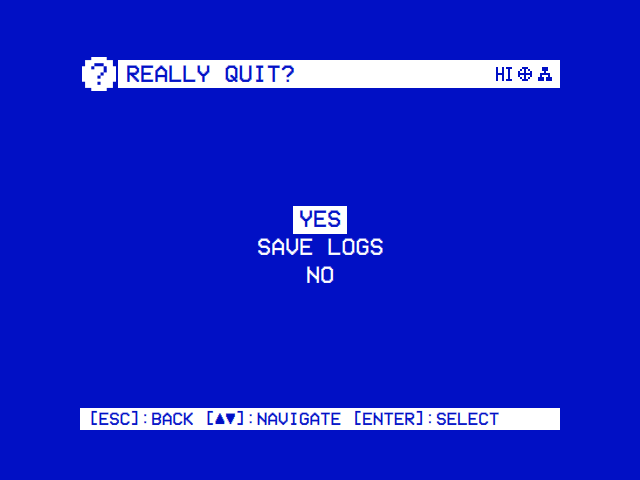
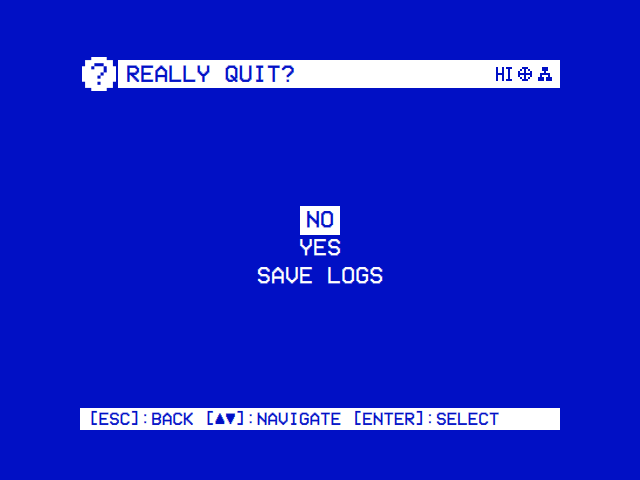
docs: retake the screenshots of Settings and the shell after the menus' rework
Nineteen pictures of Settings and the shell are taken again from the app
as it is now. They show Settings' first screen with its new hint bar,
TV / Movie's module rows with ON / OFF, Look in all five menu layouts
with OSD Frame and Loading Effect, the Startup icon in the page columns,
Quit opening on No, About without its System Information row, Cabinet
Lock's new wording and Unlock Buttons' new lines, the Test Patterns'
spelling, the on-screen keyboard's hint, the Media Folder picker, the
player menu's new rows, and the main menu's new order over a playing
video. The alt texts and captions that described the old screens now
describe the new ones, and Settings' About section says that System
Information is a row of System's page.

The main menu in its five layouts, System Information, Update, the
license, the boot and loading screens, the info screen, the OSD
backgrounds, the skins and theme templates, the confirmation before the
cabinet locks, the logo picker, the Local Files tree over a video and
the playing video with its logo show screens that are unchanged and are left as they were.

Changed region(s): [[0.4062, 0.4375, 0.625, 0.5938]]

diff --git a/docs/wiki/Settings.md b/docs/wiki/Settings.md
@@ -23,7 +23,7 @@ Back on the main menu opens Settings (`[ESC]:SETTINGS` in the hint bar), and so 
 - The hint bar names only the keys the selected row takes: **OPEN** on a row ending in ►, **CHANGE** on a list, **ON/OFF** where select turns a slider on or off, **ON/OFF** and **SETTINGS** on a module's row, and only back on a dimmed row.
 - No row is hidden. One that can't be used is dimmed, and its help line starts with why; a page opens on its first row that can be used. The first screen's Network row is dimmed where neither Wi-Fi nor Bluetooth can be used (a Mac, Windows) ([Troubleshooting](https://github.com/mehmetraif/OSD-OS/wiki/Troubleshooting#rows-dimmed-in-settings)).
 
-<img src="https://raw.githubusercontent.com/mehmetraif/OSD-OS/main/docs/screenshots/settings-dimmed.png" width="100%" alt="Settings → Look with OSD Frame selected and dimmed rows for Orb Fog and OSD Frame, the help line starting: Only with OSD Background on Box" />
+<img src="https://raw.githubusercontent.com/mehmetraif/OSD-OS/main/docs/screenshots/settings-dimmed.png" width="100%" alt="Settings → Look with OSD Frame selected and dimmed, the help line starting: Only with OSD Background on Box" />
 
 ## TV / Movie
 
@@ -54,7 +54,7 @@ Back on the main menu opens Settings (`[ESC]:SETTINGS` in the hint bar), and so 
 
 **The file browser** that Music File and Logo Image open is Local Files' tree. At its top is the default (**No File**, **OSD/OS Logo**), then **Home**, **Media** (`/media`), **Drives** (`/run/media/<user>`), **Volumes** (`/Volumes`, on a Mac) and **Root** (`/`); on Windows, in Root's place, each drive by its letter (**C:**, **D:**).
 
-<img src="https://raw.githubusercontent.com/mehmetraif/OSD-OS/main/docs/screenshots/settings-modules.png" width="100%" alt="TV / Movie's page further down: 1080p Playback dimmed, Loading Effect, Loading Colors, Channel Logo, Logo Image, Info Screen, then the MODULES heading and Ambient:Mode" />
+<img src="https://raw.githubusercontent.com/mehmetraif/OSD-OS/main/docs/screenshots/settings-modules.png" width="100%" alt="TV / Movie's page further down: Info Screen, then the MODULES heading and each video module's row with its ON or OFF: Local Files selected, Playlists, Plex, Jellyfin, Emby and YouTube" />
 
 ### The video modules
 
@@ -68,7 +68,7 @@ Under **MODULES** is a row for each module of the TV / Movie group (`"settings_g
 
 `SETTINGS | LOOK`. A theme sets the part rows: Color Scheme, Skin, the effects and Menu Music.
 
-<img src="https://raw.githubusercontent.com/mehmetraif/OSD-OS/main/docs/screenshots/settings-look.png" width="100%" alt="Settings → Look: THEME NONE, ORB FOG dimmed, COLOR SCHEME VIDEO 1, SKIN NONE, EFFECTS, OSD BACKGROUND FULL, OSD FRAME dimmed, BOOT COLORS THEME" />
+<img src="https://raw.githubusercontent.com/mehmetraif/OSD-OS/main/docs/screenshots/settings-look.png" width="100%" alt="Settings → Look: THEME NONE, COLOR SCHEME VIDEO 1, SKIN NONE, EFFECTS, MENU LAYOUT STANDARD, OSD BACKGROUND FULL, OSD FRAME dimmed, LOADING EFFECT ON" />
 
 - **THEME** in a part row (saved as `""`) means the theme's. **Off** (saved as `"Off"`) means none. A choice of its own (saved by its name) replaces the theme's.
 - Choosing a theme sets every part row back to THEME.
@@ -130,7 +130,7 @@ Every layout has the same pages and rows, and changes at once. A layout is kept 
 <tr><td colspan="2"><b>Studio Monitor.</b></td></tr>
 <tr><td><img src="https://raw.githubusercontent.com/mehmetraif/OSD-OS/main/docs/screenshots/settings-broadcast.png" width="100%" alt="Broadcast: plain blue, LOOK centred at the top, the Look page's rows, Menu Layout's value STUDIO MONITOR boxed in white while it is being changed, and the guide TO CHANGE, TO CONFIRM, TO CANCEL" /></td><td><img src="https://raw.githubusercontent.com/mehmetraif/OSD-OS/main/docs/screenshots/main-menu-broadcast.png" width="100%" alt="The main menu in Broadcast: OSD/OS centred, every module with three dots after it, a filled square before Local Files, and the guide TO SELECT, TO ENTER, TO SETTINGS" /></td></tr>
 <tr><td colspan="2"><b>Broadcast.</b></td></tr>
-<tr><td><img src="https://raw.githubusercontent.com/mehmetraif/OSD-OS/main/docs/screenshots/settings-flat-panel.png" width="100%" alt="Flat Panel: black, >Look at the top left and 1/2 at the top right, the rows in mixed case as Label: Value, Menu Layout's value Broadcast in yellow while it is being changed on a grey bar" /></td><td><img src="https://raw.githubusercontent.com/mehmetraif/OSD-OS/main/docs/screenshots/main-menu-flat-panel.png" width="100%" alt="The main menu in Flat Panel: black, OSD/OS at the top left, the modules in mixed case each with a ▶, Local Files on a grey bar" /></td></tr>
+<tr><td><img src="https://raw.githubusercontent.com/mehmetraif/OSD-OS/main/docs/screenshots/settings-flat-panel.png" width="100%" alt="Flat Panel: black, >Settings >Look at the top left and 1/2 at the top right, the rows in mixed case as Label: Value, Menu Layout's value Broadcast in yellow while it is being changed on a grey bar" /></td><td><img src="https://raw.githubusercontent.com/mehmetraif/OSD-OS/main/docs/screenshots/main-menu-flat-panel.png" width="100%" alt="The main menu in Flat Panel: black, OSD/OS at the top left, the modules in mixed case each with a ▶, Local Files on a grey bar" /></td></tr>
 <tr><td colspan="2"><b>Flat Panel.</b> The title is the path to the page (<code>&gt;Settings &gt;Look &gt;Effects</code>).</td></tr>
 </table>
 
@@ -217,7 +217,7 @@ Full-screen pictures to set up a TV or monitor by, from Artemio Urbina's [240p T
 
 <table>
 <tr><th width="50%">Grid</th><th width="50%">Monoscope</th></tr>
-<tr><td><img src="https://raw.githubusercontent.com/mehmetraif/OSD-OS/main/docs/screenshots/test-patterns.png" width="100%" alt="Settings → Screen → Test Patterns: the Grid, white squares with a dot in each and red ones round the edge, and in a box at the foot its name, what to set with it and the keys" /></td><td><img src="https://raw.githubusercontent.com/mehmetraif/OSD-OS/main/docs/screenshots/test-patterns-monoscope.png" width="100%" alt="The Monoscope: the centre cross, the arrows at the sides, the corners' patterns and the red square, with its name and what to set with it in the box" /></td></tr>
+<tr><td><img src="https://raw.githubusercontent.com/mehmetraif/OSD-OS/main/docs/screenshots/test-patterns.png" width="100%" alt="Settings → Screen → Test Patterns: the Grid, white squares with a dot in each and red ones round the edge, and in a box at the foot its name, what to set with it and the keys" /></td><td><img src="https://raw.githubusercontent.com/mehmetraif/OSD-OS/main/docs/screenshots/test-patterns-monoscope.png" width="100%" alt="The Monoscope: the center cross, the arrows at the sides, the corners' patterns and the red square, with its name and what to set with it in the box" /></td></tr>
 <tr><td>Size, position and geometry.</td><td>A tube's convergence, purity and geometry.</td></tr>
 </table>
 
@@ -434,10 +434,10 @@ More in [Installation](https://github.com/mehmetraif/OSD-OS/wiki/Installation).
 <table>
 <tr><th width="50%">About</th><th width="50%">The license</th></tr>
 <tr><td><img src="https://raw.githubusercontent.com/mehmetraif/OSD-OS/main/docs/screenshots/about.png" width="100%" alt="About" /></td><td><img src="https://raw.githubusercontent.com/mehmetraif/OSD-OS/main/docs/screenshots/license.png" width="100%" alt="The license" /></td></tr>
-<tr><td>System Information, then a line for each part of OSD/OS.</td><td>The notice, then the GNU GPL's text, a page at a time.</td></tr>
+<tr><td>A line for each part of OSD/OS.</td><td>The notice, then the GNU GPL's text, a page at a time.</td></tr>
 </table>
 
-- **System Information** is the first line: this device's name. Select opens its page ([below](#system-information)).
+- **System Information** is a row of System's page, not of About's: this device's name, and select opens its page ([below](#system-information)).
 - **Build** has the commit and the day of the build. The version is in the title bar.
 - The other lines say who makes OSD/OS and what it is made of; under **ARCADE**, the arcade's software and sites ([Credits](https://github.com/mehmetraif/OSD-OS/wiki/Credits)).
 - Each line's detail is in the help line, shown even with Help Line off.

diff --git a/docs/wiki/Using-OSD-OS.md b/docs/wiki/Using-OSD-OS.md
@@ -335,7 +335,7 @@ With Settings → TV / Movie → **Transparent Background**, back from a video r
 
 ## The hint bar and the help line
 
-<img src="https://raw.githubusercontent.com/mehmetraif/OSD-OS/main/docs/screenshots/settings.png" width="100%" alt="Settings: TV / MOVIE selected, then ARCADE, LOOK, SCREEN, SOUND, CONTROLS, NETWORK and STARTUP, a ▼ for the rows below, a help line scrolling its text, and the hint bar [ESC]:BACK [▲▼]:NAVIGATE [◄►]:CHANGE [ENTER]:SELECT" />
+<img src="https://raw.githubusercontent.com/mehmetraif/OSD-OS/main/docs/screenshots/settings.png" width="100%" alt="Settings: TV / MOVIE selected, then ARCADE, LOOK, SCREEN, SOUND, CONTROLS, NETWORK and STARTUP, a ▼ for the rows below, a help line scrolling its text, and the hint bar [ESC]:BACK [▲▼]:NAVIGATE [ENTER]:OPEN" />
 
 - **The hint bar** at the foot of every screen says which keys do what there. It shows the keyboard's keys (`[ESC]`, `[ENTER]`, `[SPACE]`) until you press a gamepad button, then that gamepad's (`[B]`, `[A]`, `[START]`) ([Controls](https://github.com/mehmetraif/OSD-OS/wiki/Controls#the-hints-at-the-foot-of-the-screen)).
 - **The help line** is the box under a menu with a line about the selected row. A line too long for the box scrolls through it.
@@ -368,7 +368,7 @@ Back on the main menu opens Settings. A line has its value between the arrows th
 
 <table>
 <tr><th width="50%">A module's settings</th><th width="50%">Picking a folder</th></tr>
-<tr><td><img src="https://raw.githubusercontent.com/mehmetraif/OSD-OS/main/docs/screenshots/module-settings.png" width="100%" alt="Local Files' settings: its folder, looping, shuffle, resume, subtitles, and its own Scaling" /></td><td><img src="https://raw.githubusercontent.com/mehmetraif/OSD-OS/main/docs/screenshots/folder-picker.png" width="100%" alt="The folder picker open on the films folder, the home folder's folders to its left: USE THIS FOLDER, then its folders, one for each genre, ACTION's RAMBO MOVIES faint" /></td></tr>
+<tr><td><img src="https://raw.githubusercontent.com/mehmetraif/OSD-OS/main/docs/screenshots/module-settings.png" width="100%" alt="Local Files' settings: its folder, looping, shuffle, resume, subtitles, and its own Scaling" /></td><td><img src="https://raw.githubusercontent.com/mehmetraif/OSD-OS/main/docs/screenshots/folder-picker.png" width="100%" alt="The folder picker open on the films folder, the places and the home folder's folders to its left: USE THIS FOLDER selected, then its folders, one for each genre" /></td></tr>
 <tr><td>Local Files' settings.</td><td>Folders are picked on the same tree: USE THIS FOLDER picks the one open, Default Folder the module's own.</td></tr>
 </table>
 
@@ -376,7 +376,7 @@ Back on the main menu opens Settings. A line has its value between the arrows th
 
 ## Quit, Restart, Power Off, Exit to Terminal
 
-<img src="https://raw.githubusercontent.com/mehmetraif/OSD-OS/main/docs/screenshots/quit.png" width="100%" alt="REALLY QUIT?: YES, SAVE LOGS and NO" />
+<img src="https://raw.githubusercontent.com/mehmetraif/OSD-OS/main/docs/screenshots/quit.png" width="100%" alt="REALLY QUIT?: NO selected, then YES and SAVE LOGS" />
 
 **Quit** is the last line of Settings. It asks **Really quit?**, the cursor on the answer that stays (**No**, **Cancel**). Started with the system the row is **Power**, with the power symbol in Camcorder's column, and asks **Power off?**:
 
@@ -397,8 +397,8 @@ Back on the main menu opens Settings. A line has its value between the arrows th
 
 <table>
 <tr><th width="50%">About</th><th width="50%">The license</th></tr>
-<tr><td><img src="https://raw.githubusercontent.com/mehmetraif/OSD-OS/main/docs/screenshots/about.png" width="100%" alt="About: the OSD/OS wordmark and SMART TV FOR CRT, then SYSTEM INFORMATION with this device's name, BUILD, DEVELOPER, BASED ON, LICENSE and SOURCE lines, and the help line about the selected one" /></td><td><img src="https://raw.githubusercontent.com/mehmetraif/OSD-OS/main/docs/screenshots/license.png" width="100%" alt="The license page: the GPL's notice for OSD/OS, then the license's text" /></td></tr>
-<tr><td>System Information, then a line for each part of OSD/OS.</td><td>Behind the LICENSE line: the notice, then the GNU GPL's text.</td></tr>
+<tr><td><img src="https://raw.githubusercontent.com/mehmetraif/OSD-OS/main/docs/screenshots/about.png" width="100%" alt="About: the OSD/OS wordmark and SMART TV FOR CRT, then the BUILD line selected, DEVELOPER, BASED ON, LICENSE, WEBSITE and SOURCE, and the help line about the selected one" /></td><td><img src="https://raw.githubusercontent.com/mehmetraif/OSD-OS/main/docs/screenshots/license.png" width="100%" alt="The license page: the GPL's notice for OSD/OS, then the license's text" /></td></tr>
+<tr><td>A line for each part of OSD/OS.</td><td>Behind the LICENSE line: the notice, then the GNU GPL's text.</td></tr>
 </table>
 
 Settings → System → **About** lists what OSD/OS is, who makes it and what it is made of. The help line gives each line's detail, even with Help Line off.

diff --git a/docs/wiki/Troubleshooting.md b/docs/wiki/Troubleshooting.md
@@ -44,8 +44,8 @@ OSD/OS writes one line per event. Where the lines go depends on how it was start
 
 <table>
 <tr><th width="50%">Settings → Quit, run by hand</th><th width="50%">The boot screen (the image)</th></tr>
-<tr><td><img src="https://raw.githubusercontent.com/mehmetraif/OSD-OS/main/docs/screenshots/quit.png" width="100%" alt="The quit question: Yes, Save Logs and No" /></td><td><img src="https://raw.githubusercontent.com/mehmetraif/OSD-OS/main/docs/screenshots/boot.png" width="100%" alt="The boot screen: the cassette and a line per service" /></td></tr>
-<tr><td>Run by hand: Yes, Save Logs (on the image) and No. Started by the service: Power Off, Restart, Exit to Terminal, Save Logs and Cancel.</td><td><code>[ OK ]</code> once a service is up, <code>[FAIL]</code> if it failed, <code>[ -- ]</code> if it was skipped.</td></tr>
+<tr><td><img src="https://raw.githubusercontent.com/mehmetraif/OSD-OS/main/docs/screenshots/quit.png" width="100%" alt="The quit question: No selected, then Yes and Save Logs" /></td><td><img src="https://raw.githubusercontent.com/mehmetraif/OSD-OS/main/docs/screenshots/boot.png" width="100%" alt="The boot screen: the cassette and a line per service" /></td></tr>
+<tr><td>Run by hand: No, Yes and Save Logs (on the image). Started by the service: Cancel, Power Off, Restart, Exit to Terminal and Save Logs.</td><td><code>[ OK ]</code> once a service is up, <code>[FAIL]</code> if it failed, <code>[ -- ]</code> if it was skipped.</td></tr>
 </table>
 
 ### When it crashes or freezes: the reports

diff --git a/docs/wiki/Modules.md b/docs/wiki/Modules.md
@@ -4,7 +4,7 @@ Everything OSD/OS plays comes in through a module. **TV / Movie** modules are so
 
 <table>
 <tr><th width="50%">The main menu</th><th width="50%">Settings → TV / Movie</th></tr>
-<tr><td><img src="https://raw.githubusercontent.com/mehmetraif/OSD-OS/main/docs/screenshots/main-menu.png" width="100%" alt="The main menu" /></td><td><img src="https://raw.githubusercontent.com/mehmetraif/OSD-OS/main/docs/screenshots/settings-modules.png" width="100%" alt="Settings → TV / Movie further down: 1080p Playback dimmed, Loading Effect, Loading Colors, Channel Logo, Logo Image, Info Screen, then the MODULES heading and Ambient:Mode" /></td></tr>
+<tr><td><img src="https://raw.githubusercontent.com/mehmetraif/OSD-OS/main/docs/screenshots/main-menu.png" width="100%" alt="The main menu" /></td><td><img src="https://raw.githubusercontent.com/mehmetraif/OSD-OS/main/docs/screenshots/settings-modules.png" width="100%" alt="Settings → TV / Movie further down: Info Screen, then the MODULES heading and each video module's row with its ON or OFF: Local Files selected, Playlists, Plex, Jellyfin, Emby and YouTube" /></td></tr>
 <tr><td>The modules turned on. Select opens one; back opens Settings.</td><td>A module's row under Modules opens its settings.</td></tr>
 </table>
 

diff --git a/docs/wiki/The-OSD-OS-Image.md b/docs/wiki/The-OSD-OS-Image.md
@@ -418,7 +418,7 @@ For `sudo` on an image built without a password, give `pi` a password on OSD/OS 
 
 <table>
 <tr><th width="50%">Quit</th><th width="50%">Update</th></tr>
-<tr><td><img src="https://raw.githubusercontent.com/mehmetraif/OSD-OS/main/docs/screenshots/quit.png" width="100%" alt="Really quit? with Yes, Save Logs and No" /></td><td><img src="https://raw.githubusercontent.com/mehmetraif/OSD-OS/main/docs/screenshots/update.png" width="100%" alt="Update: installed version DEV, press Enter to check for the latest" /></td></tr>
+<tr><td><img src="https://raw.githubusercontent.com/mehmetraif/OSD-OS/main/docs/screenshots/quit.png" width="100%" alt="Really quit? with No selected, then Yes and Save Logs" /></td><td><img src="https://raw.githubusercontent.com/mehmetraif/OSD-OS/main/docs/screenshots/update.png" width="100%" alt="Update: installed version DEV, press Enter to check for the latest" /></td></tr>
 <tr><td>Settings → Quit, run by hand. On the image it offers the choices below.</td><td>Settings → System → Update.</td></tr>
 </table>
 

diff --git a/docs/TOUR.md b/docs/TOUR.md
@@ -238,7 +238,7 @@ Settings → Arcade → **LAN Play** and **Online Play**: up to six players acro
 
 <table>
 <tr><th width="50%">Dimmed rows</th><th width="50%">Look</th></tr>
-<tr><td><img src="screenshots/settings-dimmed.png" width="100%" alt="Settings → Look with dimmed rows, the help line saying why" /></td><td><img src="screenshots/settings-look.png" width="100%" alt="Settings → Look: Theme, Color Scheme, Skin, Effects, OSD Background, OSD Frame, Boot Colors" /></td></tr>
+<tr><td><img src="screenshots/settings-dimmed.png" width="100%" alt="Settings → Look with a dimmed row, the help line saying why" /></td><td><img src="screenshots/settings-look.png" width="100%" alt="Settings → Look: Theme, Color Scheme, Skin, Effects, Menu Layout, OSD Background, OSD Frame, Loading Effect" /></td></tr>
 <tr><td>A row that can't be used here is dimmed, never hidden, and the help line says why.</td><td>The whole look at once with Theme, or each part on its own row.</td></tr>
 </table>
 

diff --git a/docs/wiki/Themes.md b/docs/wiki/Themes.md
@@ -112,7 +112,7 @@ Each is a folder in [assets/themes](https://github.com/mehmetraif/OSD-OS/tree/ma
 
 ### Theme and the rows under it
 
-<img src="https://raw.githubusercontent.com/mehmetraif/OSD-OS/main/docs/screenshots/settings-look.png" width="100%" alt="Settings → Look: THEME NONE, ORB FOG dimmed, COLOR SCHEME VIDEO 1, SKIN NONE, EFFECTS, OSD BACKGROUND FULL, OSD FRAME dimmed, BOOT COLORS THEME" />
+<img src="https://raw.githubusercontent.com/mehmetraif/OSD-OS/main/docs/screenshots/settings-look.png" width="100%" alt="Settings → Look: THEME NONE, COLOR SCHEME VIDEO 1, SKIN NONE, EFFECTS, MENU LAYOUT STANDARD, OSD BACKGROUND FULL, OSD FRAME dimmed, LOADING EFFECT ON" />
 
 **Theme** lists None (the default) and every theme by name. It is saved as `app.osd_theme`: the theme's folder name, `""` for None.
 
